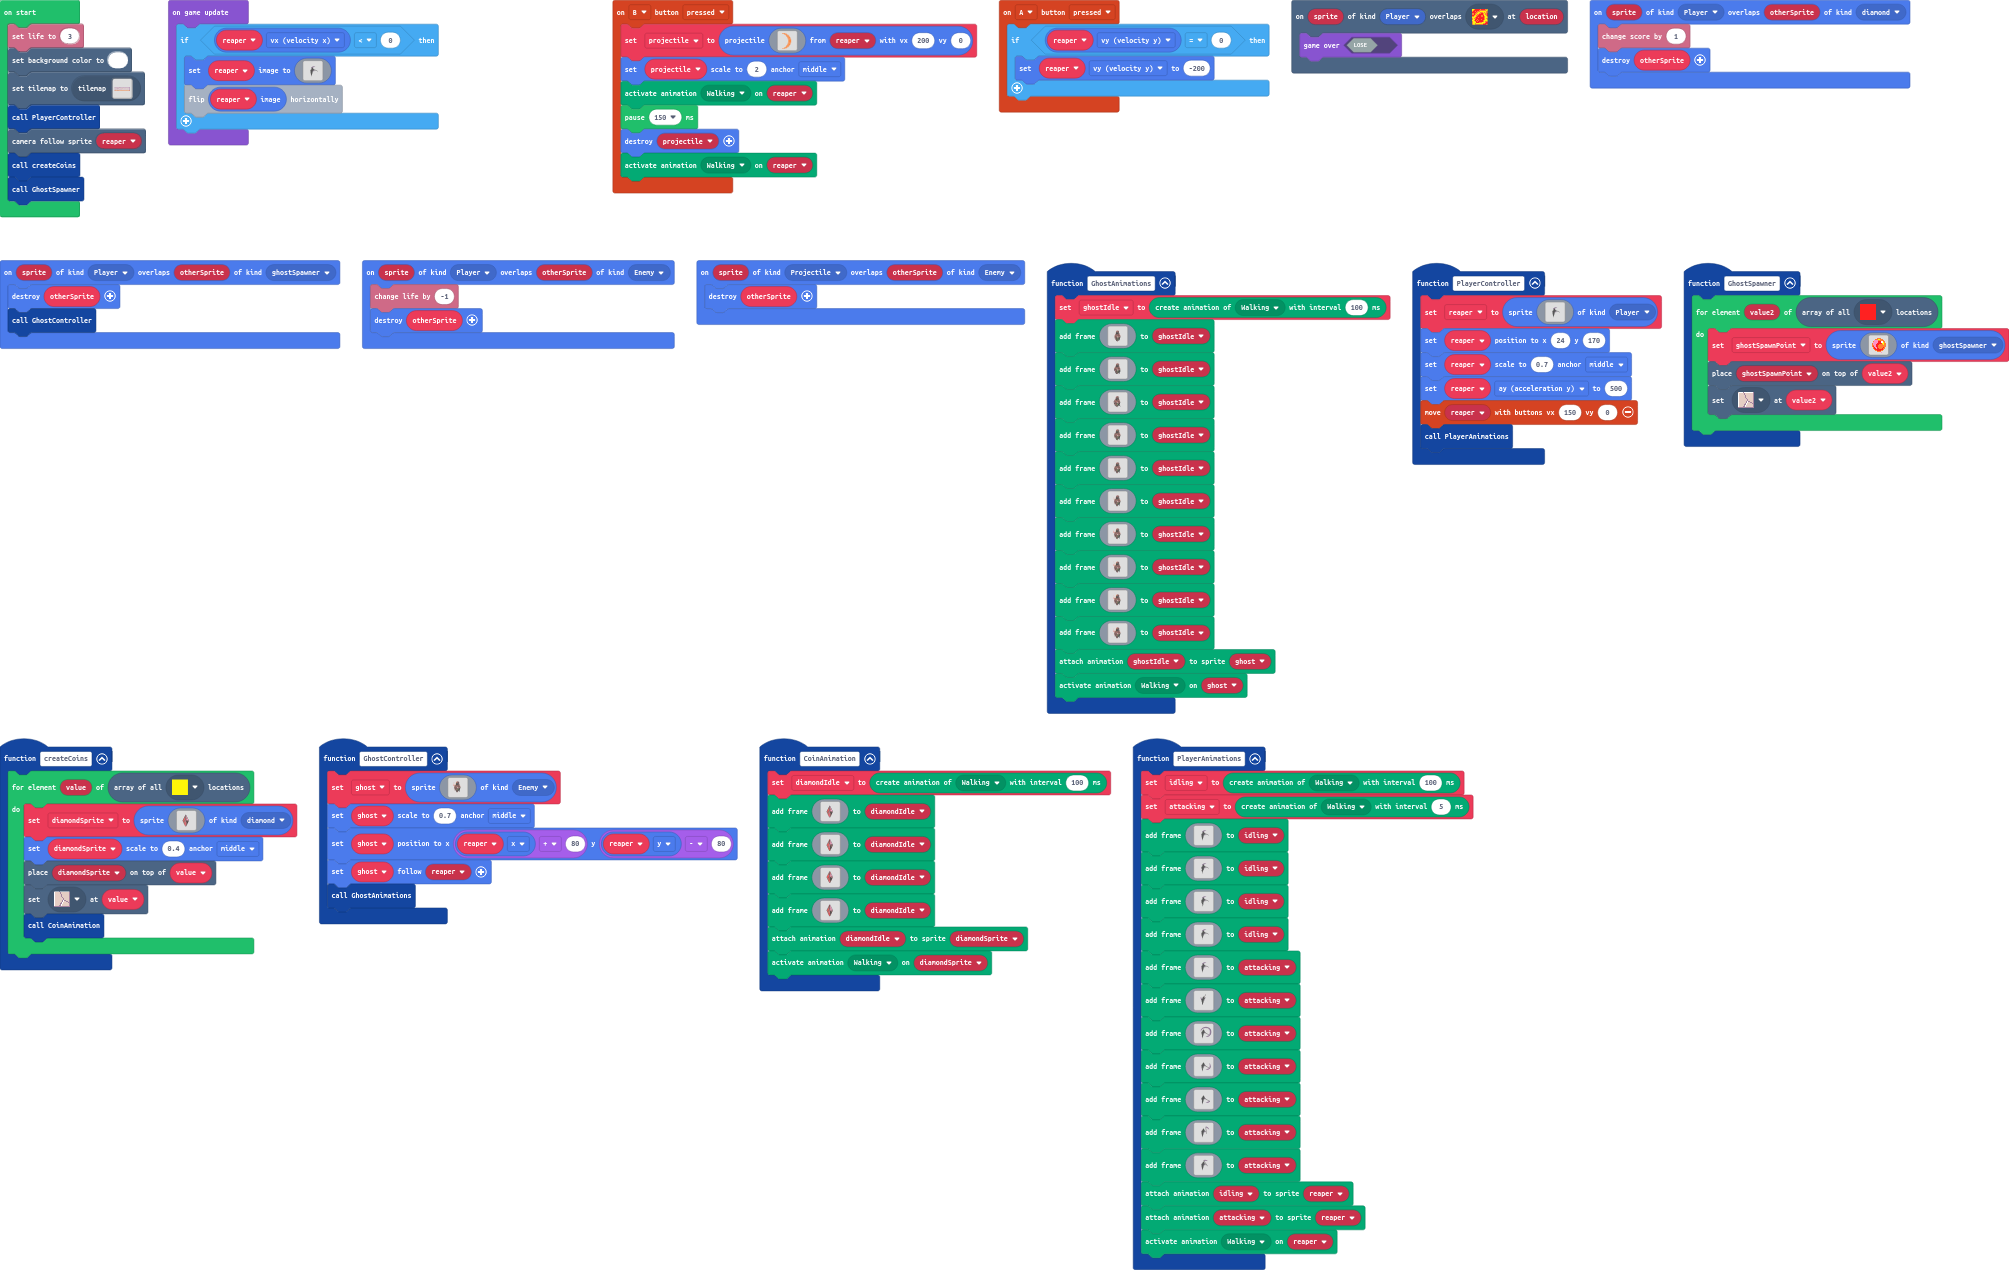
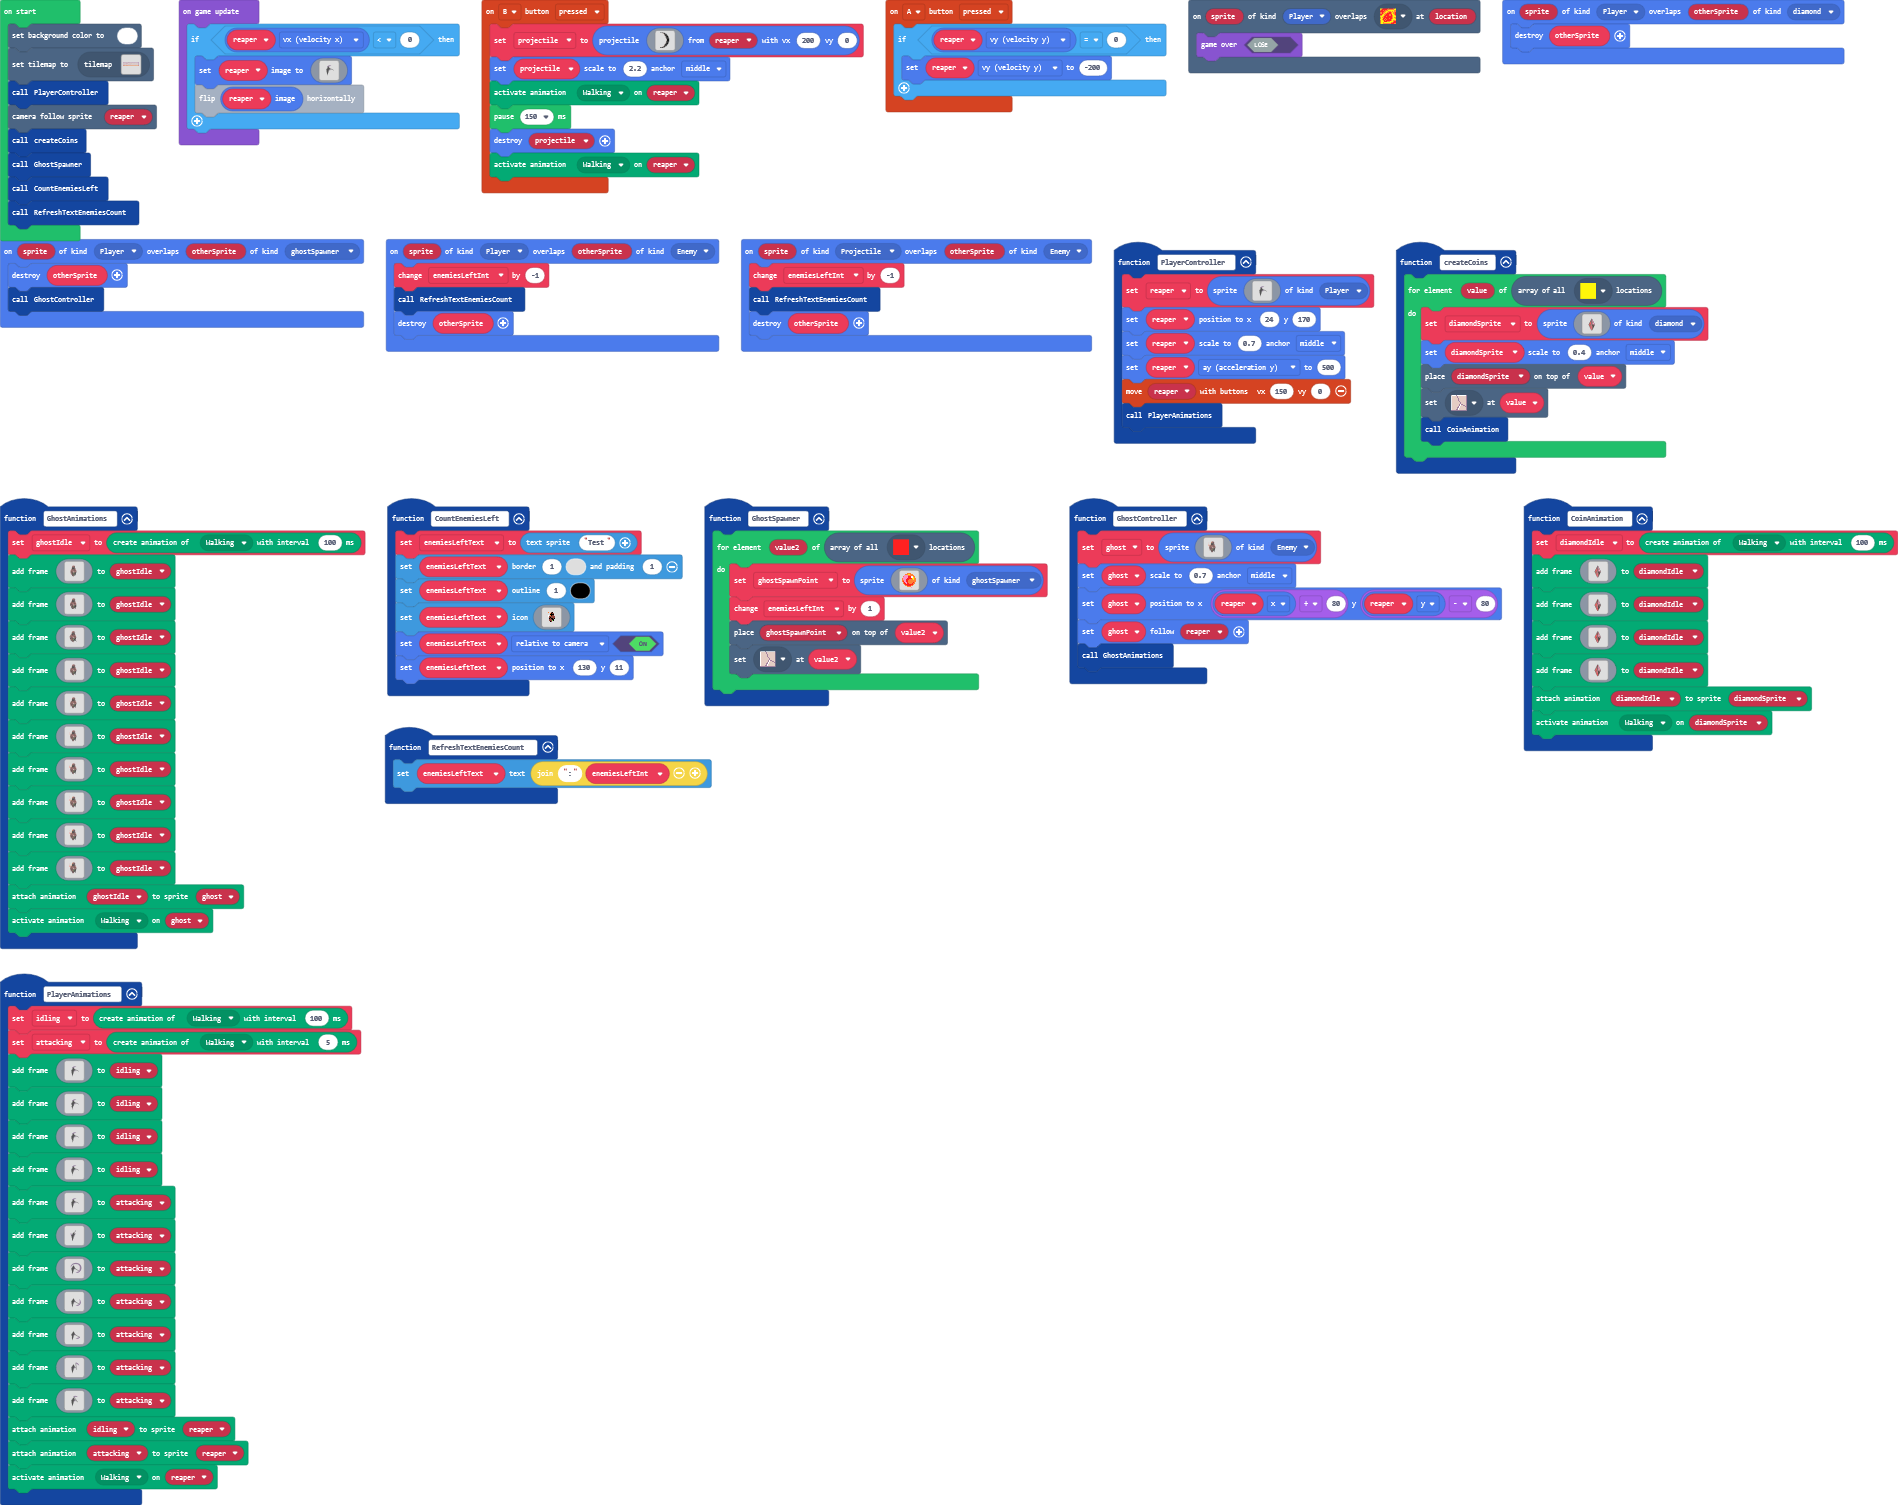
Enemies left text

diff --git a/main.ts b/main.ts
@@ -10,36 +10,36 @@ namespace SpriteKind {
 }
 controller.B.onEvent(ControllerButtonEvent.Pressed, function () {
     projectile = sprites.createProjectileFromSprite(img`
-        44444...........
-        ...44444........
-        ....44444.......
-        ......44444.....
-        .......44444....
-        ........44444...
-        ........44444...
-        .........44444..
-        ..........44444.
-        ..........44444.
-        ..........44444.
-        ...........44444
-        ...........44444
-        ...........44444
-        ...........44444
-        ...........44444
-        ...........44444
-        ..........44444.
-        ..........44444.
-        ..........44444.
-        .........44444..
-        ........44444...
-        ........44444...
-        .......44444....
-        ......44444.....
-        ....44444.......
-        ...44444........
-        44444...........
+        fffff...........
+        ...dffff........
+        ....ddfff.......
+        ......dffff.....
+        .......dffff....
+        ........fffff...
+        ........dffff...
+        .........dffff..
+        ..........fffff.
+        ..........fffff.
+        ..........dffff.
+        ...........fffff
+        ...........dffff
+        ...........dffff
+        ...........dffff
+        ...........dffff
+        ...........fffff
+        ..........dffff.
+        ..........dffff.
+        ..........fffff.
+        .........dffff..
+        ........dffff...
+        ........fffff...
+        .......dffff....
+        ......dffff.....
+        ....ddfff.......
+        ...dffff........
+        fffff...........
         `, reaper, 200, 0)
-    projectile.setScale(2, ScaleAnchor.Middle)
+    projectile.setScale(2.2, ScaleAnchor.Middle)
     animation.setAction(reaper, ActionKind.Attacking)
     pause(150)
     sprites.destroy(projectile)
@@ -72,7 +72,6 @@ function PlayerAnimations () {
     animation.setAction(reaper, ActionKind.Idle)
 }
 sprites.onOverlap(SpriteKind.Player, SpriteKind.diamond, function (sprite, otherSprite) {
-    info.changeScoreBy(1)
     sprites.destroy(otherSprite)
 })
 function PlayerController () {
@@ -127,7 +126,37 @@ function GhostController () {
     ghost.follow(reaper)
     GhostAnimations()
 }
+function CountEnemiesLeft () {
+    enemiesLeftText = textsprite.create("Test")
+    enemiesLeftText.setBorder(1, 0, 1)
+    enemiesLeftText.setOutline(1, 15)
+    enemiesLeftText.setIcon(img`
+        . . . . . . . . . . . . . . . . 
+        . . . . . . . . . . . . . . . . 
+        . . . . . . . . . . . . . . . . 
+        . . . . 4 . . e f . . . . . . . 
+        . . . . . . 4 f e e . . . . . . 
+        . . . . . . f f f f . . . . . . 
+        . . . . 1 . 4 f e e . . . . . . 
+        . . . . 1 e e e e e e . . . . . 
+        . . . . . e f e e e e . . . . . 
+        . . . . . f e f f e f . . . . . 
+        . . . . . e e e f f . . . . . . 
+        . . . . . e e e 7 f . . . . . . 
+        . . . . . . f e . . . . . . . . 
+        . . . . . . . . . . . . . . . . 
+        . . . . . . . . . . . . . . . . 
+        . . . . . . . . . . . . . . . . 
+        `)
+    enemiesLeftText.setFlag(SpriteFlag.RelativeToCamera, true)
+    enemiesLeftText.setPosition(130, 11)
+}
+function RefreshTextEnemiesCount () {
+    enemiesLeftText.setText(":" + enemiesLeftInt)
+}
 sprites.onOverlap(SpriteKind.Projectile, SpriteKind.Enemy, function (sprite, otherSprite) {
+    enemiesLeftInt += -1
+    RefreshTextEnemiesCount()
     sprites.destroy(otherSprite)
 })
 function GhostSpawner () {
@@ -150,15 +179,19 @@ function GhostSpawner () {
             . . . . . . 4 4 4 4 . . . . . . 
             . . . . . . . . . . 3 . . . . . 
             `, SpriteKind.ghostSpawner)
+        enemiesLeftInt += 1
         tiles.placeOnTile(ghostSpawnPoint, value2)
         tiles.setTileAt(value2, sprites.dungeon.floorLight5)
     }
 }
 sprites.onOverlap(SpriteKind.Player, SpriteKind.Enemy, function (sprite, otherSprite) {
-    info.changeLifeBy(-1)
+    enemiesLeftInt += -1
+    RefreshTextEnemiesCount()
     sprites.destroy(otherSprite)
 })
 let ghostSpawnPoint: Sprite = null
+let enemiesLeftInt = 0
+let enemiesLeftText: TextSprite = null
 let ghost: Sprite = null
 let ghostIdle: animation.Animation = null
 let diamondSprite: Sprite = null
@@ -167,13 +200,14 @@ let attacking: animation.Animation = null
 let idling: animation.Animation = null
 let projectile: Sprite = null
 let reaper: Sprite = null
-info.setLife(3)
 scene.setBackgroundColor(1)
 tiles.setCurrentTilemap(tilemap`level3`)
 PlayerController()
 scene.cameraFollowSprite(reaper)
 createCoins()
 GhostSpawner()
+CountEnemiesLeft()
+RefreshTextEnemiesCount()
 game.onUpdate(function () {
     if (reaper.vx < 0) {
         reaper.setImage(assets.image`ReaperIdle1`)
